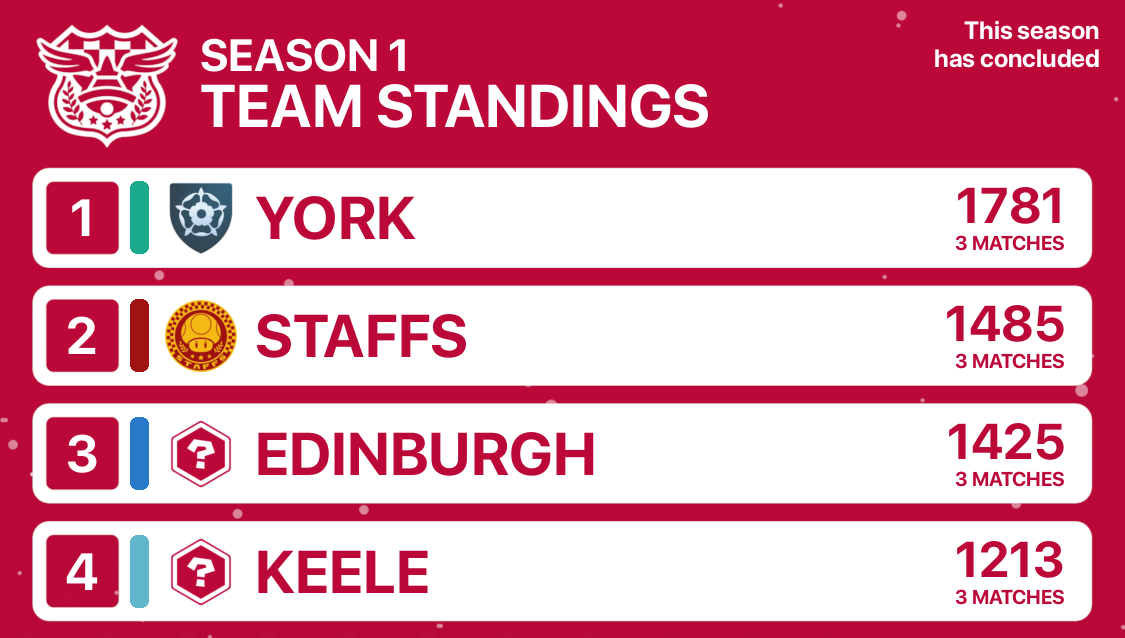
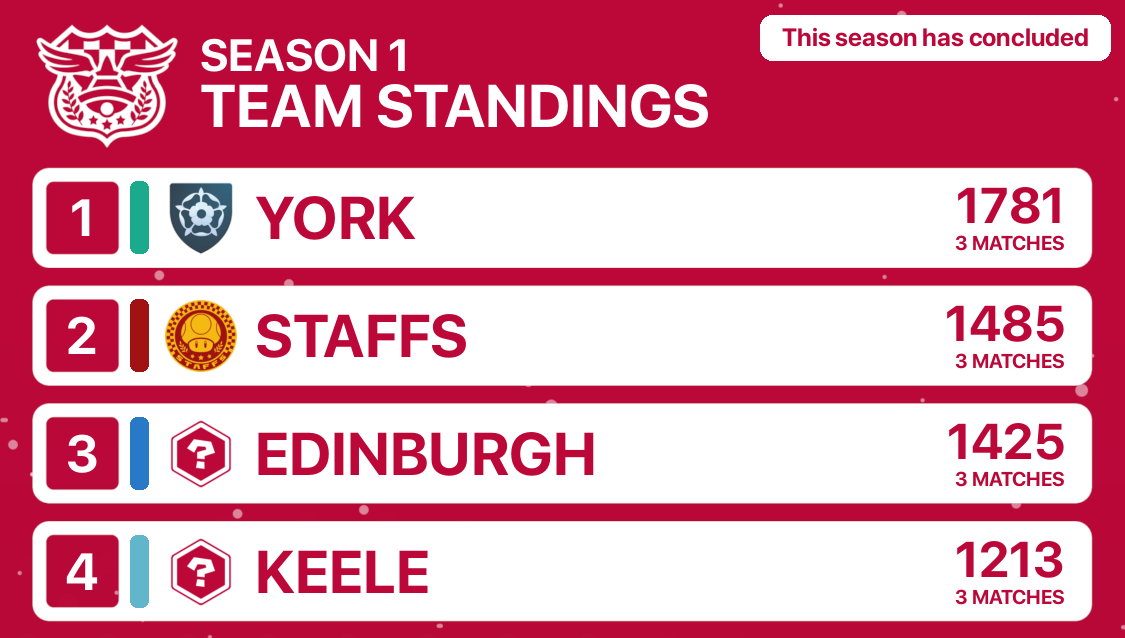
FIX: update graphics

Changed region(s): [[0.6533, 0.0, 0.9956, 0.1191]]

diff --git a/graphics.py b/graphics.py
@@ -205,11 +205,12 @@ def create_team_standings_image(
     add_text("TEAM STANDINGS", TITLE_POSITION, DEFAULT_FONT, TITLE_FONT_SIZE, TITLE_COLOR, anchor="lm")
 
     if add_timestamp:
+        draw_box_custom((760, 15), 350, 45, 12, "#fff", "#fff")
         timestamp = datetime.now().strftime("%d/%m/%Y")
         if (season_id == logic.get_current_season()):
-            add_text(f"Standings as of\n{timestamp}", (TITLE_POSITION[0] + 900, TITLE_POSITION[1] - 85), DEFAULT_FONT, TITLE_FONT_SIZE - 35, TITLE_COLOR, anchor="rt")
+            add_text(f"Standings as of {timestamp}", (TITLE_POSITION[0] + 735, TITLE_POSITION[1] - 68), DEFAULT_FONT, TITLE_FONT_SIZE - 35, ACCENT_COLOR, anchor="mm")
         else:
-            add_text(f"This season\nhas concluded", (TITLE_POSITION[0] + 900, TITLE_POSITION[1] - 85), DEFAULT_FONT, TITLE_FONT_SIZE - 35, TITLE_COLOR, anchor="rt")
+            add_text(f"This season has concluded", (TITLE_POSITION[0] + 735, TITLE_POSITION[1] - 68), DEFAULT_FONT, TITLE_FONT_SIZE - 35, ACCENT_COLOR, anchor="mm")
 
     # Draw team standings
     for i, (team_id, current_points) in enumerate(team_standings[:MAX_TEAMS]):
